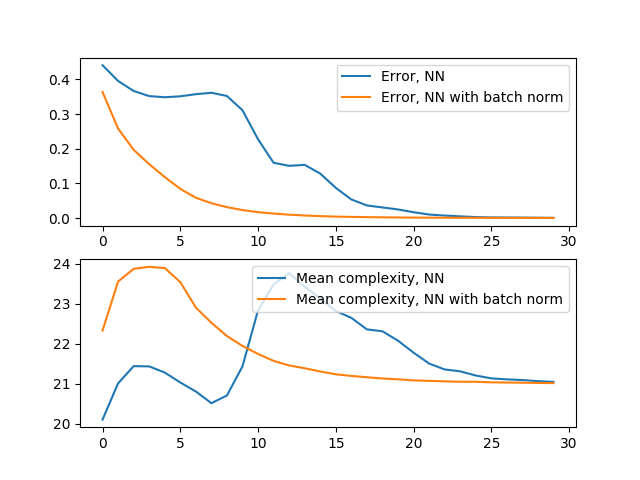
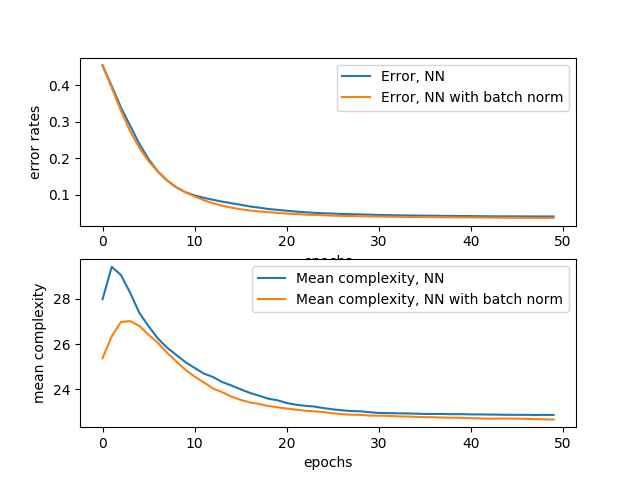
Minor

diff --git a/LVC_plot.py b/LVC_plot.py
@@ -75,7 +75,7 @@ m_2 = 2 ** (n - 1)
 m_3 = 2 ** (n - 2)
 layer_num = 3  ## number of layers of the neural network, user-defined
 neu = 40  ## neurons per layer
-epochs = 30 ## training time
+epochs = 50 ## training time
 mean = 0.0 ## mean of initialization
 scale = 1.0 ## var of initialization
 
@@ -119,7 +119,7 @@ non_BN_mean_complexity = torch.zeros(epochs)
 BN_mean_complexity = torch.zeros(epochs)
 
 # initialize MC number of models
-MC_num = 100  ## number of models
+MC_num = 500  ## number of models
 model1s, optimizer1s = [], []
 model2s, optimizer2s = [], []
 
@@ -154,8 +154,8 @@ for MC in range(MC_num):
         model2.FC2.weight = torch.nn.Parameter(model1.FC2.weight.clone().detach())
         model2.FC3.weight = torch.nn.Parameter(model1.FC3.weight.clone().detach())
     # define optimizer
-    optimizer1 = optim.Adam(model1.parameters(), lr=0.01)
-    optimizer2 = optim.Adam(model2.parameters(), lr=0.01)
+    optimizer1 = optim.Adam(model1.parameters(), lr=0.02)
+    optimizer2 = optim.Adam(model2.parameters(), lr=0.02)
 
     model1s.append(model1)
     model2s.append(model2)
